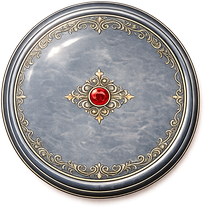
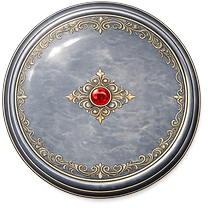
nardy: normalize checker PNGs to equal squares; flip board 180 for black (always play top-down)

diff --git a/src/screens/NardyMatch.tsx b/src/screens/NardyMatch.tsx
@@ -446,6 +446,7 @@ export function NardyMatch({ user, config, resume, online, onExit }: NardyMatchP
             s={s}
             targets={targets}
             movers={movers}
+            flip={myColor === 'b'}
             onTapPoint={tapPoint}
             onTapOff={tapOff}
           />
@@ -701,19 +702,21 @@ function Board({
   s,
   targets,
   movers,
+  flip,
   onTapPoint,
   onTapOff,
 }: {
   s: NardyState
   targets: Map<number | 'off', number[]>
   movers: { id: number; fx: number; fy: number; tx: number; ty: number; white: boolean }[]
+  flip?: boolean
   onTapPoint: (p: number) => void
   onTapOff: () => void
 }) {
   return (
     <div
       className="relative w-full overflow-hidden rounded-xl shadow-[0_10px_28px_rgba(0,0,0,0.5)]"
-      style={{ aspectRatio: '1448 / 1086' }}
+      style={{ aspectRatio: '1448 / 1086', transform: flip ? 'rotate(180deg)' : undefined }}
     >
       <img
         src="/assets/nardy/board.jpg"